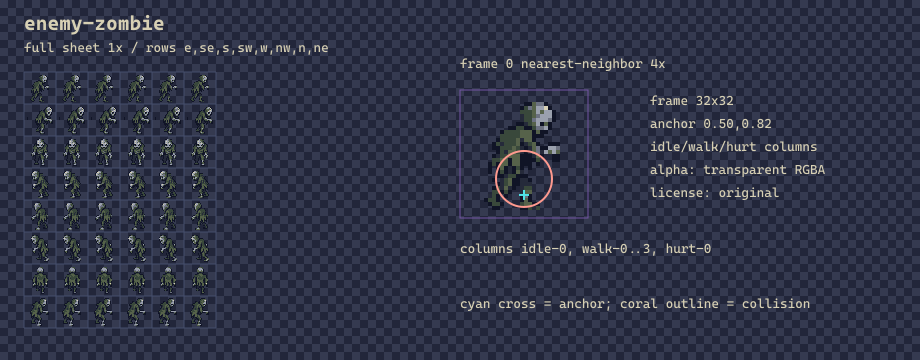
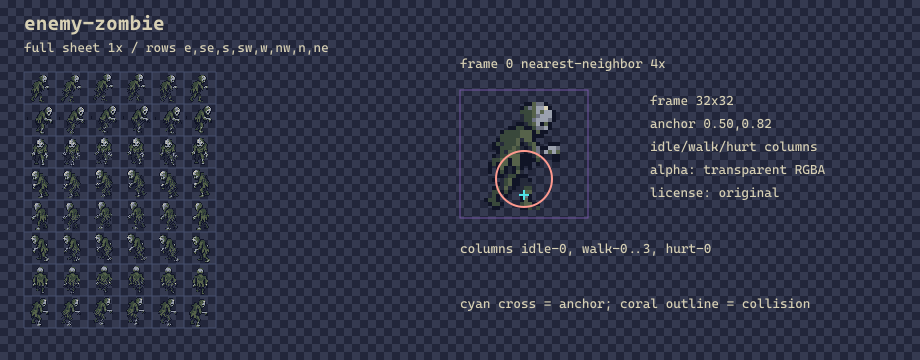
Fix sprite animation semantics

Changed region(s): [[0.0609, 0.2139, 0.2435, 0.7944], [0.0609, 0.825, 0.2435, 0.9167], [0.1826, 0.4889, 0.2435, 0.55]]

diff --git a/docs/art/imagegen-provenance.md b/docs/art/imagegen-provenance.md
@@ -2,7 +2,7 @@
 
 ## Provenance
 
-The five source boards in `assets/source/imagegen/` were generated on
+The six source boards in `assets/source/imagegen/` were generated on
 2026-10-23 with Codex's built-in ImageGen tool in transparent-background mode.
 No external images or third-party assets were supplied. The request taxonomy
 was `stylized-concept`; each prompt required original designs, hard pixel
@@ -16,6 +16,7 @@ copyrighted designs.
 | `cemetery-enemies-imagegen.png` | Zombie and bat silhouettes | Mossy zombie and angular spectral bat; eight directions each; 32×32 intent. |
 | `graveyard-guardian-imagegen.png` | Cemetery Boss silhouette | Grave-marker stone sentinel, chains, moss, cyan soul core; eight directions; 48×48 intent. |
 | `effects-pickups-imagegen.png` | Weapons, VFX, pickups, HUD | Ghost arrow, soul blade, aura, hit spark, telegraphs, XP gem, healing vial, heart, pointer. |
+| `soul-guide-animation-reference-v2.png` | Review-driven animation reference | Same Soul Guide identity with materially distinct walk stride, cyan soul attack, and collapsed death silhouettes; generated after PR review found translated idle poses. |
 
 The exact production prompts followed the same structure for every board:
 
@@ -34,13 +35,18 @@ Avoid: painterly rendering, gradients, soft edges, realism, and recognizable cop
 
 `tools/art/build-vertical-slice.cjs` performs the reproducible export:
 
-1. Crops isolated concepts from the five generated source boards.
+1. Crops isolated concepts from the generated source boards; the v2 animation
+   board is retained as the visual reference for the review-driven motion
+   semantics.
 2. Fits them into `16×16`, `32×32`, or `48×48` logical frames.
 3. Resamples only with nearest-neighbor filtering.
 4. Snaps every opaque pixel to the nearest approved palette color.
 5. Converts edge alpha to binary `0/255` transparency.
 6. Assembles fixed direction rows and animation columns.
-7. Writes runtime PNGs, `assets/manifest.json`, and labeled contact sheets.
+7. Authors deterministic stride/body-bob, soul-flare attack, hit-recoil, and
+   collapse/fade states from each original directional pose.
+8. Removes PNG physical-density metadata, then writes runtime PNGs,
+   `assets/manifest.json`, and labeled contact sheets.
 
 Run with Sharp available on `NODE_PATH`:
 

diff --git a/docs/art/art-bible.md b/docs/art/art-bible.md
@@ -37,7 +37,10 @@ manifest and regenerating every affected asset.
 - Player columns are `idle-0`, `walk-0..3`, `hurt-0`, `attack-0..1`, `death-0`.
 - Cemetery enemy/Boss columns are `idle-0`, `walk-0..3`, `hurt-0`; later
   attack/death sheets keep the same direction rows.
-- Walk loops play at 8 fps; player attacks at 10 fps; hit VFX at 14 fps.
+- Walk loops play at 8 fps and alternate lower-body/wing stride plus body bob.
+  Player attacks play at 10 fps with a forward lean and extending soul flare.
+  Death plays hurt into a compressed, partially faded collapse at 6 fps. Hit
+  VFX plays at 14 fps.
 
 Feet share a baseline. Anchors are normalized per frame and collision excludes
 glow, cloak trails, wings, chains, and shadows. Contact sheets show the full
@@ -47,7 +50,7 @@ coral outlines mark collision.
 ## Export and Naming
 
 Runtime images are sRGB RGBA PNGs with binary alpha and lowercase kebab-case
-filenames in `assets/images/`. No runtime image embeds scaling metadata.
+filenames in `assets/images/`. No runtime image embeds `pHYs` scaling metadata.
 Code loads manifest keys, never paths. Original ImageGen boards live in
 `assets/source/imagegen/`; they are references, not runtime textures.
 
